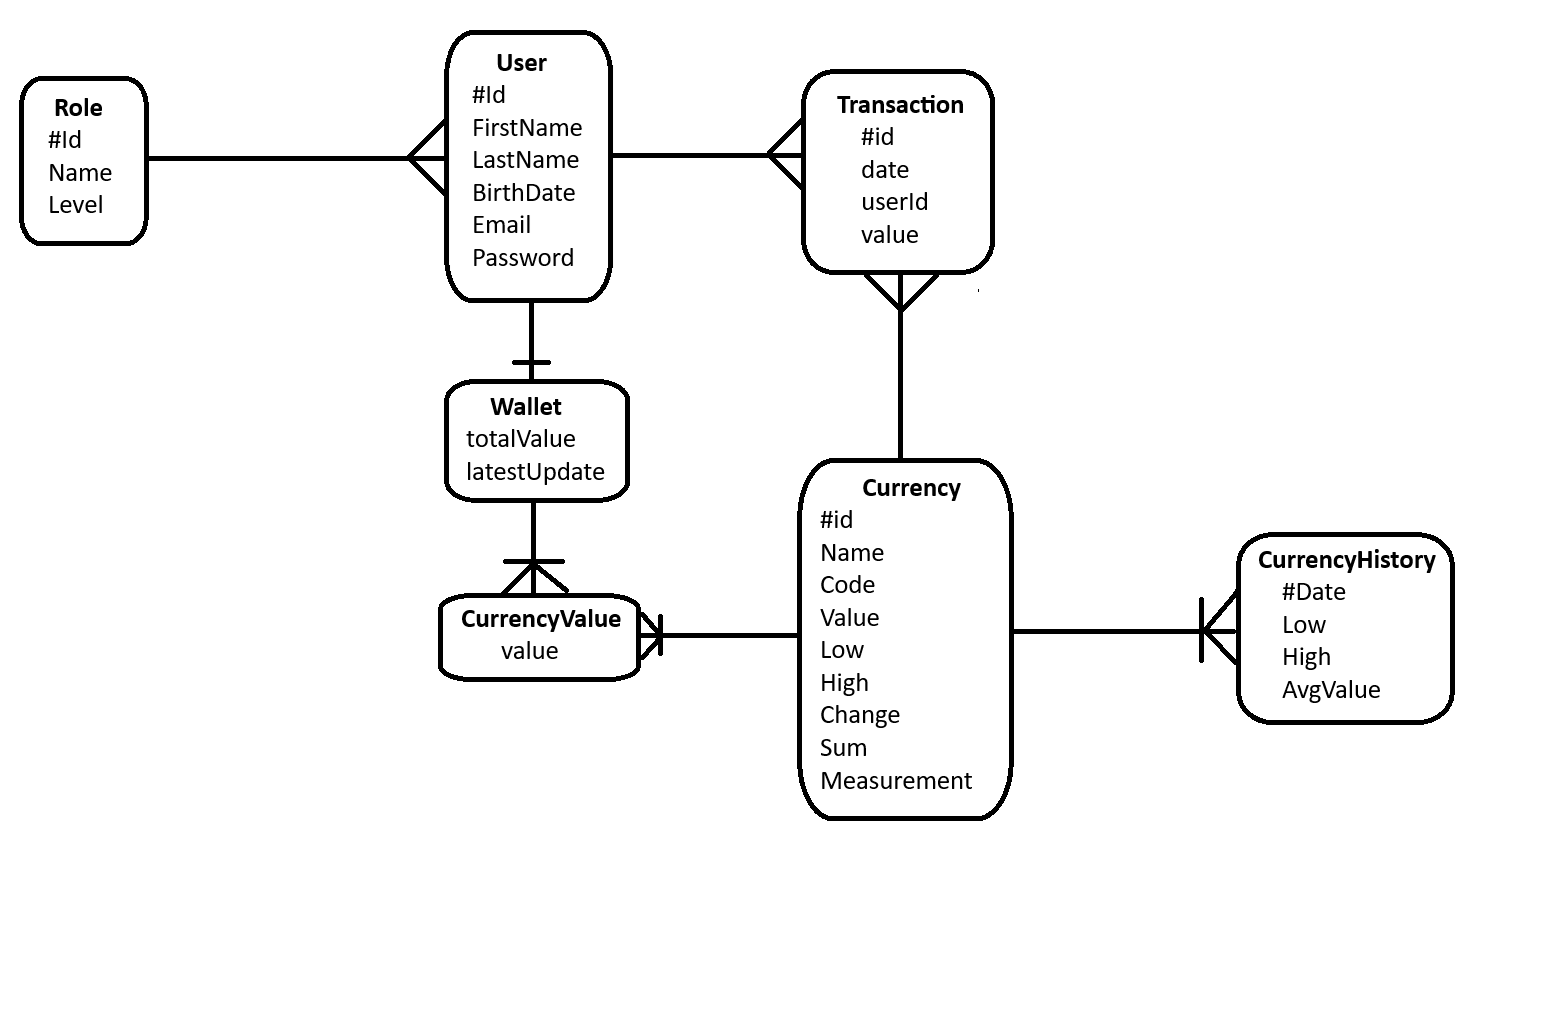
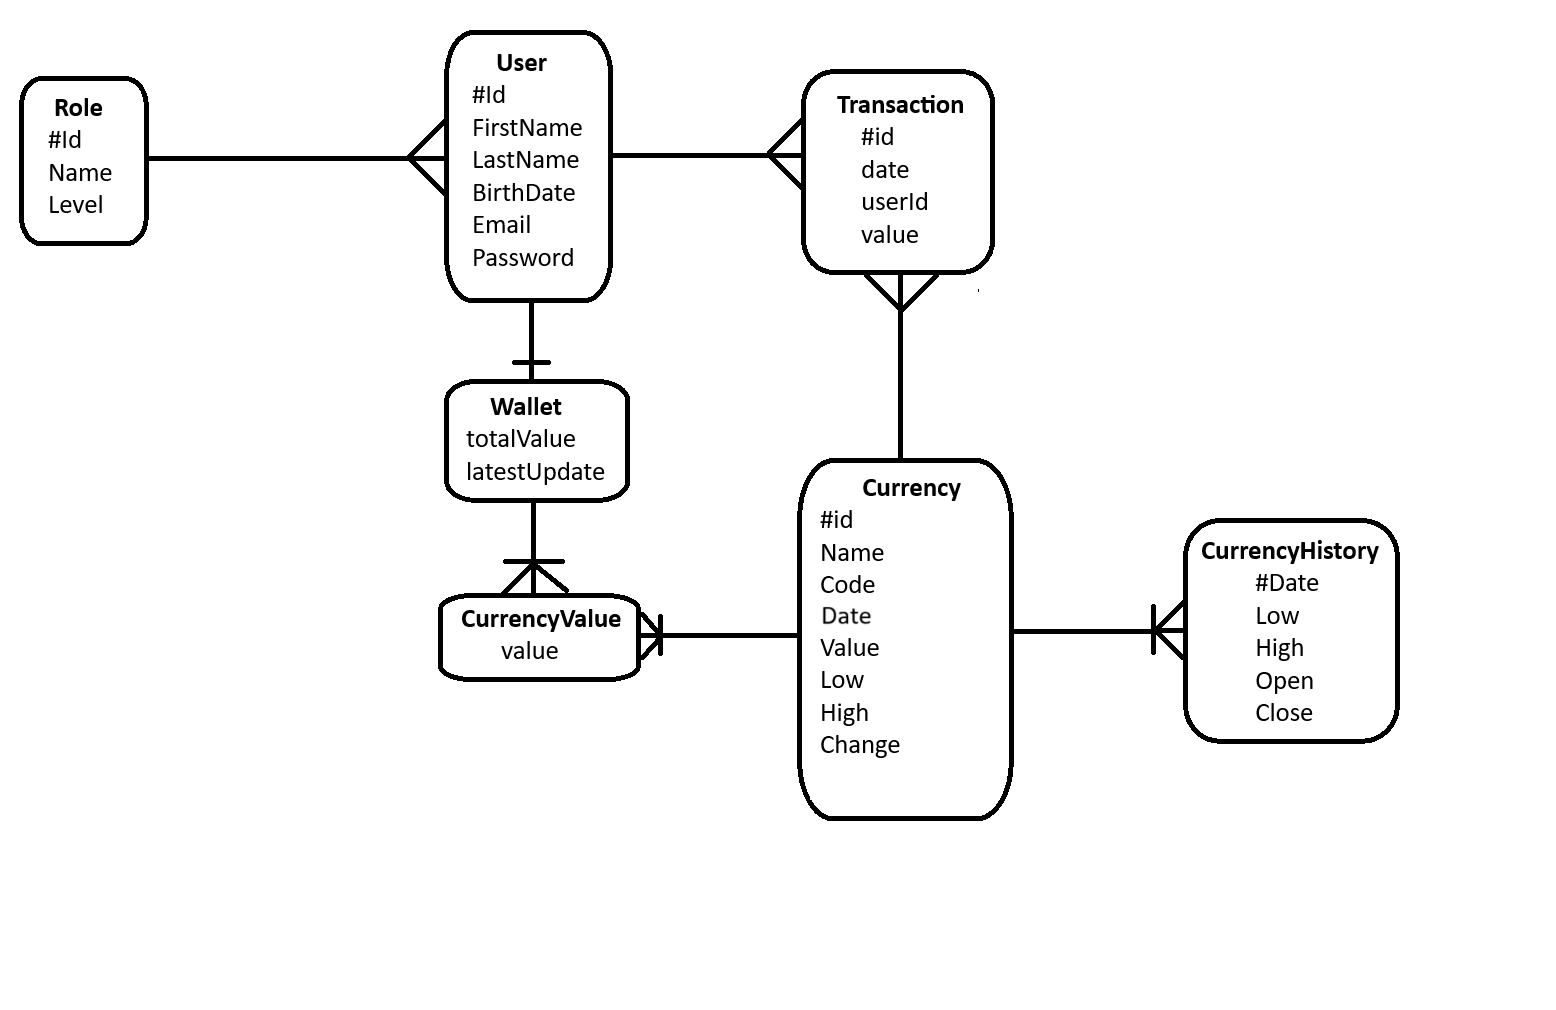
Repair DataUpdater

Changed region(s): [[0.7404, 0.4911, 0.9563, 0.7366], [0.5244, 0.5832, 0.617, 0.798]]

diff --git a/wwwroot/js/Currencies.js b/wwwroot/js/Currencies.js
@@ -28,12 +28,17 @@ connection.on("ReceiveCurrencies", function (currencies) {
         let id24Low = row.insertCell(2);
         let id24High = row.insertCell(3);
         let idChange = row.insertCell(4);
-        var img = document.createElement("img");
-        img.src = "/images/Icons/" + currency.id + ".svg";
-        img.width = 17;
-        img.style.marginRight = "6px";
-        idCurrency.appendChild(img);
-        idCurrency.appendChild(document.createTextNode(currency.code));
+
+        var linkElement = document.createElement('a');
+        linkElement.className = 'tradeLink';
+        linkElement.href = '/Trade/' + currency.id;
+        var img = document.createElement('img');
+        img.src = '/images/Icons/' + currency.id + '.svg';
+        img.width = 26;
+        img.style.marginRight = '8px';
+        linkElement.appendChild(img);
+        linkElement.appendChild(document.createTextNode(currency.code));
+        idCurrency.appendChild(linkElement);
         
         idValue.textContent = FixValue(currency.value);
         id24Low.textContent = FixValue(currency.low);

diff --git a/wwwroot/css/Currencies.css b/wwwroot/css/Currencies.css
@@ -28,3 +28,7 @@
     display: flex;
     justify-content: center;
 }
+.tradeLink {
+    text-decoration: none;
+    color: black;
+}

diff --git a/Models/CurrencyHistory.cs b/Models/CurrencyHistory.cs
@@ -13,24 +13,31 @@ public partial class CurrencyHistory
 	[StringLength(30)]
 	public string CurrencyId { get; set; } = null!;
 
-	public Currency Currency { get; set; } = null!;
 
 	[Required]
 	[Column(TypeName = "decimal(20, 10)")]
-	[Range(0, double.MaxValue, ErrorMessage = "Low must be non-negative.")]
+	[Range(0, double.MaxValue, ErrorMessage = "Low value must be non-negative.")]
 	public decimal Low { get; set; }
 
 	[Required]
 	[Column(TypeName = "decimal(20, 10)")]
-	[Range(0, double.MaxValue, ErrorMessage = "High must be non-negative.")]
+	[Range(0, double.MaxValue, ErrorMessage = "High value must be non-negative.")]
 	public decimal High { get; set; }
+
 
 	[Required]
 	[Column(TypeName = "decimal(20, 10)")]
-	[Range(0, double.MaxValue, ErrorMessage = "A must be non-negative.")]
-	public decimal AvgValue { get; set; }
+	[Range(0, double.MaxValue, ErrorMessage = "Open value must be non-negative.")]
+	public decimal Open { get; set; }
+
+	[Required]
+	[Column(TypeName = "decimal(20, 10)")]
+	[Range(0, double.MaxValue, ErrorMessage = "Close value must be non-negative.")]
+	public decimal Close { get; set; }
 
 
-	
+	//nav properties
+	public Currency Currency { get; set; } = null!;
+
 }
 

diff --git a/Data/MyDbContext.cs b/Data/MyDbContext.cs
@@ -1,11 +1,17 @@
 using Microsoft.EntityFrameworkCore;
 using ASP_.NET_nauka.Models;
 using System.Reflection.Metadata;
+using Microsoft.Extensions.Configuration;
 
 namespace ASP_.NET_nauka.Data;
 
 public class MyDbContext : DbContext
 {
+	/*protected override void OnConfiguring(DbContextOptionsBuilder optionsBuilder)
+	{
+		string connectionString = "Server = (localdb)\\MSSQLLocalDB; Initial Catalog = DataBases; Integrated Security = True";
+		optionsBuilder.UseSqlServer(connectionString);
+	}*/
 	public MyDbContext(DbContextOptions<MyDbContext> options) : base(options)
 	{
 
@@ -20,14 +26,14 @@ public class MyDbContext : DbContext
 	public DbSet<WalletCurrencyValue> WalletCurrencyValues { get; set; }
 	protected override void OnModelCreating(ModelBuilder modelBuilder)
 	{
-		// Currency history primary key
+		// CurrencyHistory primary key
 		modelBuilder.Entity<CurrencyHistory>()
 			.HasKey(ch => new { ch.Date, ch.CurrencyId });
 
 		// 1:N configuration between Currency and CurrencyHistory
 		modelBuilder.Entity<CurrencyHistory>()
 			.HasOne(ch => ch.Currency)
-			.WithMany() 
+			.WithMany(c => c.CurrenciesHistories) 
 			.HasForeignKey(ch => ch.CurrencyId)
 			.IsRequired();
 

diff --git a/Server/DataUpdater.cs b/Server/DataUpdater.cs
@@ -30,12 +30,12 @@ public class DataUpdater : BackgroundService
             UpdateDatabase(dbContext);
 			while (!stoppingToken.IsCancellationRequested)
 			{
-				await UpdateCurrencies(dbContext);
-				CalculateChange(dbContext);
+				/*await UpdateCurrencies(dbContext);
+				CalculateChange(dbContext);*/
 				IEnumerable<Currency> currencies = dbContext.Currencies.ToList();
 				await _hubContext.Clients.All.SendAsync("ReceiveCurrencies", currencies);
                 Console.WriteLine("----------DBUpdate----------");
-				await Task.Delay(TimeSpan.FromSeconds(120), stoppingToken);
+				await Task.Delay(TimeSpan.FromSeconds(3), stoppingToken);
 			}
 		}
 		

diff --git a/Models/Currency.cs b/Models/Currency.cs
@@ -38,14 +38,8 @@ public partial class Currency
 	[Required]
 	public DateTime Date { get; set; }
 
-	[Column(TypeName = "decimal(38, 10)")]
-	[Range(0, double.MaxValue, ErrorMessage = "Sum must be non-negative.")]
-	public decimal Sum { get; set; }
-
-	[Range(0, int.MaxValue, ErrorMessage = "Measurement must be non-negative.")]
-	public int Measurement { get; set; }
-
 
 	//nav properties
 	public IEnumerable<WalletCurrencyValue> WalletCurrencyValues { get; set; } = null!;
+	public IEnumerable<CurrencyHistory> CurrenciesHistories { get; set; } = null!;
 }

diff --git a/Controllers/TradeController.cs b/Controllers/TradeController.cs
@@ -1,0 +1,20 @@
+using ASP_.NET_nauka.Data;
+using Microsoft.AspNetCore.Mvc;
+using ASP_.NET_nauka.Models;
+namespace ASP_.NET_nauka.Controllers;
+
+public class TradeController : Controller
+{
+	private MyDbContext _db;
+
+	public TradeController(MyDbContext db)
+	{
+		_db = db;
+	}
+
+	[Route("trade/{currencyId}")]
+	public IActionResult Index(Currency currencyId)
+	{
+		return View();
+	}
+}
